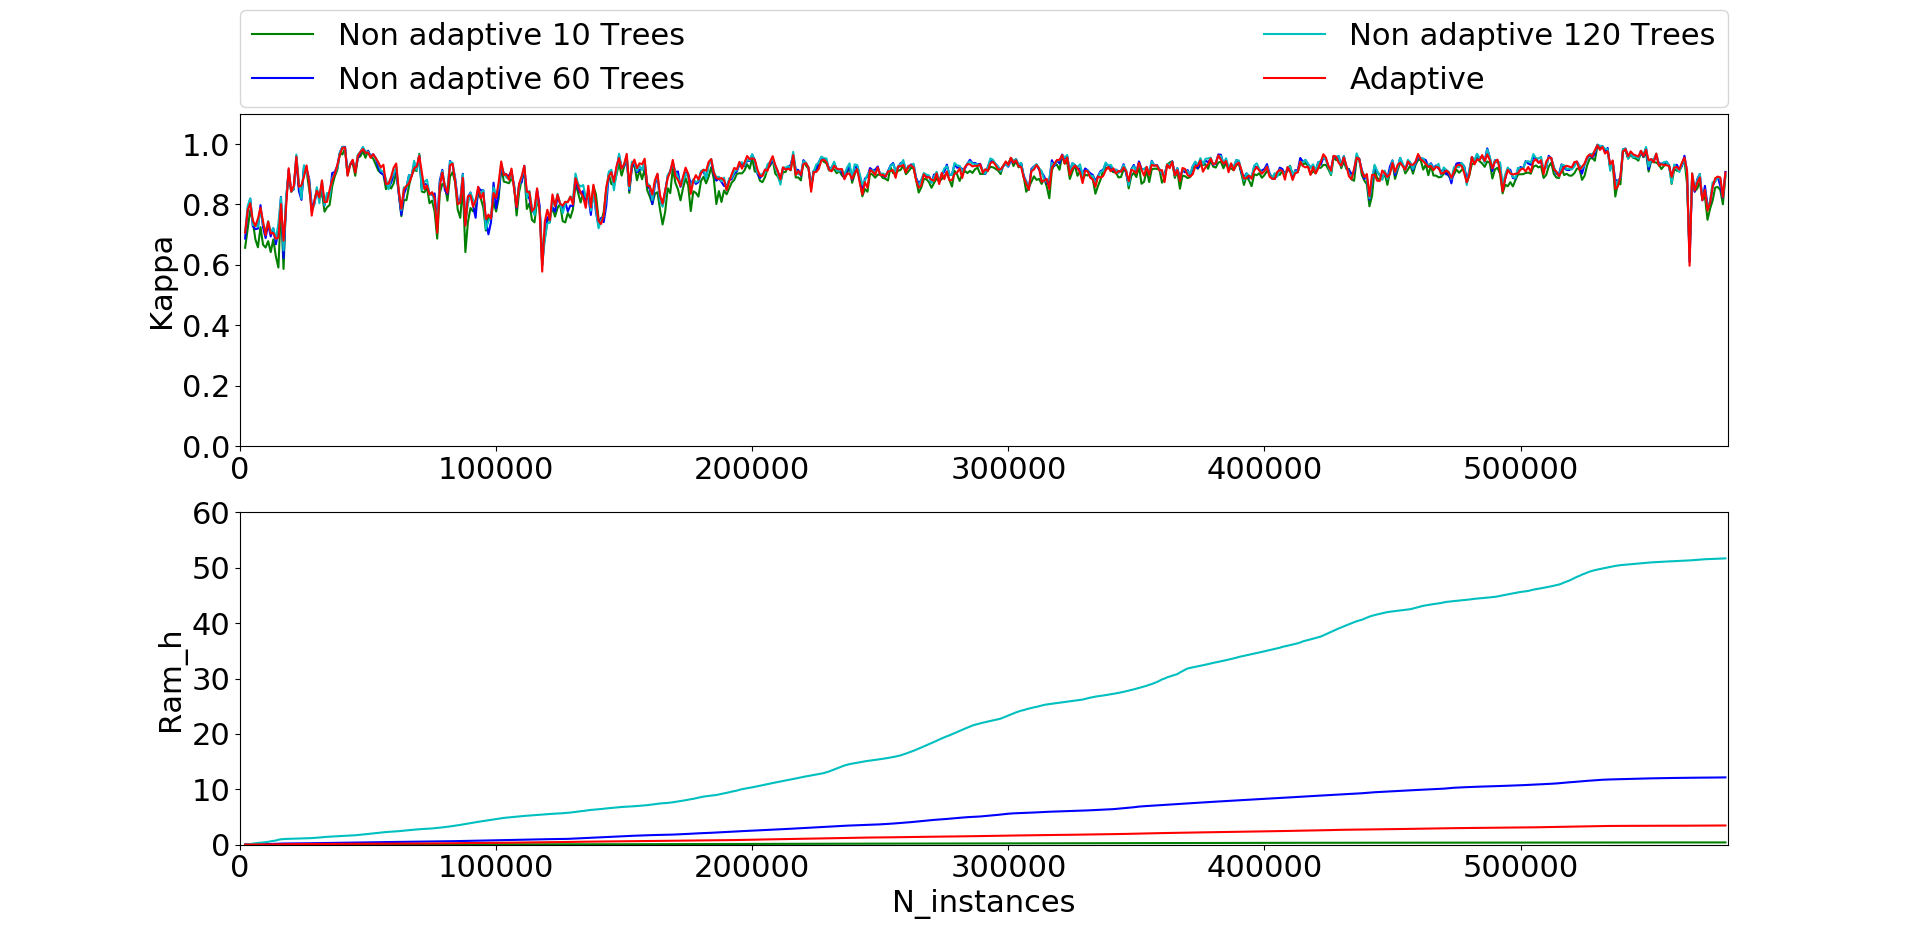
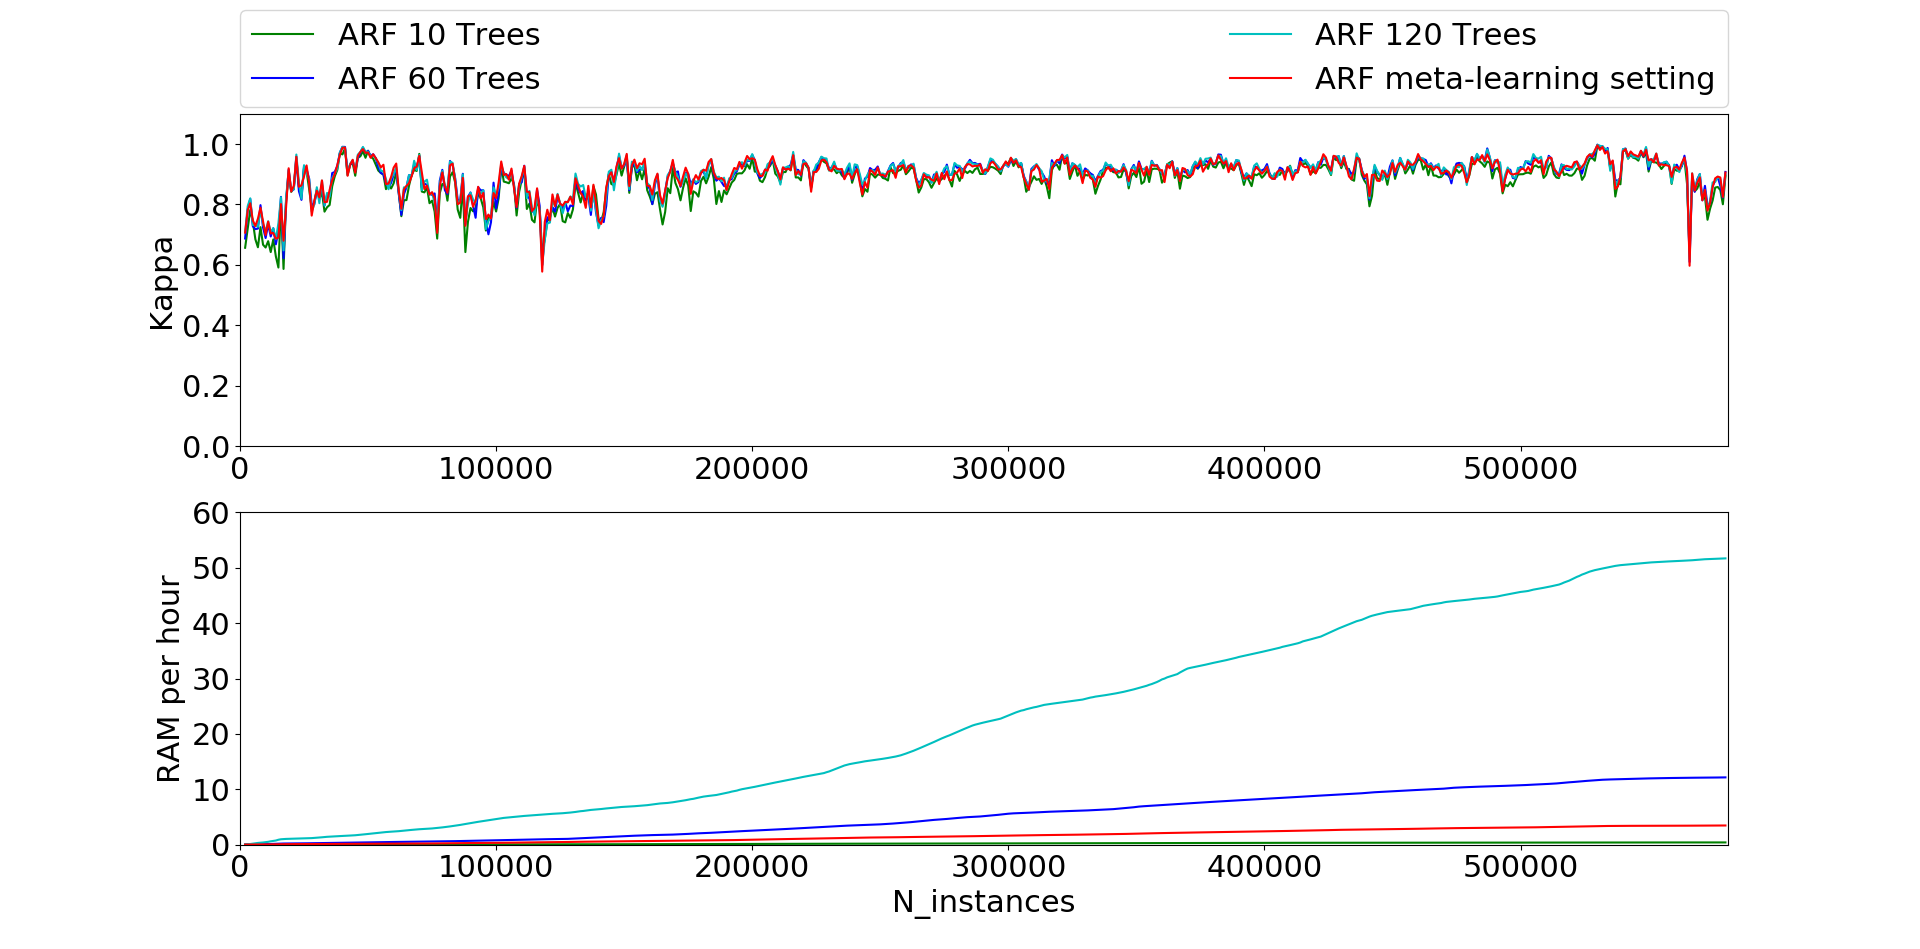
Fix typos

Changed region(s): [[0.6875, 0.0, 0.9062, 0.0917], [0.1562, 0.0, 0.375, 0.0917], [0.0625, 0.6112, 0.0938, 0.8251]]

diff --git a/demo_pareto.py b/demo_pareto.py
@@ -50,7 +50,7 @@ class DemoPareto():
         
         plt.title('Pareto front')
         plt.xlabel('Kappa')
-        plt.ylabel('RAM hours')
+        plt.ylabel('RAM per hour')
         xmin, xmax, ymin, ymax = plt.axis()
         plt.show()
 
@@ -84,7 +84,7 @@ class DemoPareto():
         plt.title('Pareto front')
         plt.plot(x_pareto, y_pareto, color='r')
         plt.xlabel('Kappa')
-        plt.ylabel('RAM hours')
+        plt.ylabel('RAM per hour')
         xmin, xmax, ymin, ymax = plt.axis()
         plt.show()
         
@@ -147,7 +147,7 @@ class DemoPareto():
         plt.title('Pareto front')
         plt.plot(x_pareto, y_pareto, color='r')
         plt.xlabel('Kappa')
-        plt.ylabel('RAM hours')
+        plt.ylabel('RAM per hour')
         xmin, xmax, ymin, ymax = plt.axis()
         plt.vlines(kn.knee, plt.ylim()[0], plt.ylim()[1], linestyles='dashed')
         plt.show()
